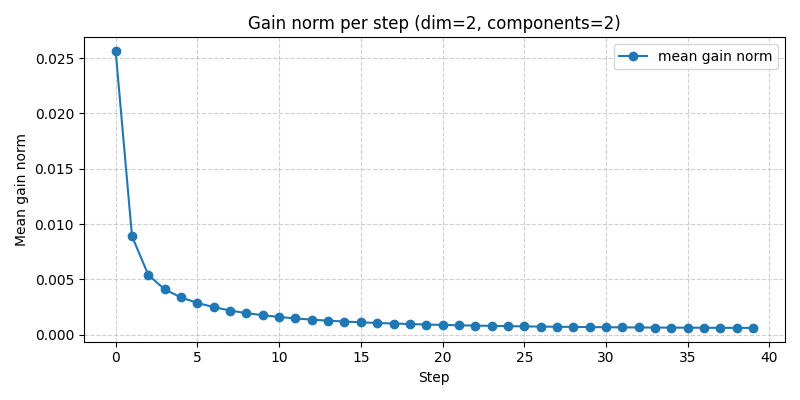
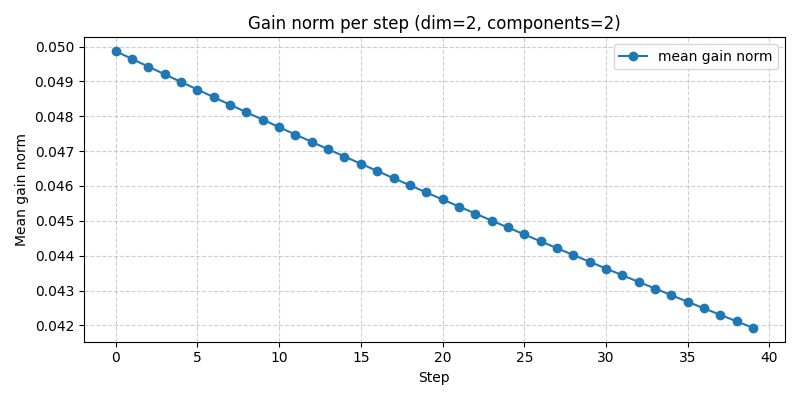
added possibility to get samples from means

diff --git a/benchmarking/benchmark_convergence.py b/benchmarking/benchmark_convergence.py
@@ -1,0 +1,193 @@
+"""Benchmark convergence of PCD sampling using moment matching errors per step."""
+
+import argparse
+from pathlib import Path
+
+import matplotlib.pyplot as plt
+import numpy as np
+import torch
+
+from pcd_sampling_py.models import PCDSamplerConfig
+from pcd_sampling_py.sampler import PCDSampler
+
+
+def build_gaussian_mixture(
+    dim: int = 2, components: int = 2, device: torch.device | None = None
+):
+    device = device or torch.device("cpu")
+    weights = torch.full((components,), 1.0 / components, device=device, dtype=torch.float32)
+    means = torch.zeros((components, dim), device=device, dtype=torch.float32)
+    means[:, 0] = torch.linspace(-2.0, 2.0, components, device=device)
+    covariances = torch.stack(
+        [torch.eye(dim, device=device, dtype=torch.float32) for _ in range(components)],
+        dim=0,
+    )
+    return weights, means, covariances
+
+
+def compute_mixture_moments(weights: torch.Tensor, means: torch.Tensor, covariances: torch.Tensor):
+    """Return population mean and covariance of a Gaussian mixture."""
+    mixture_mean = torch.sum(weights[:, None] * means, dim=0)
+    centered = means - mixture_mean
+    mixture_cov = torch.sum(
+        weights[:, None, None]
+        * (covariances + torch.einsum("bi,bj->bij", centered, centered)),
+        dim=0,
+    )
+    return mixture_mean, mixture_cov
+
+
+def ensure_device(device_str: str) -> torch.device:
+    device = torch.device(device_str)
+    if device.type == "cuda" and not torch.cuda.is_available():
+        print("CUDA requested but not available. Falling back to CPU.")
+        device = torch.device("cpu")
+    torch.set_default_device(device)
+    return device
+
+
+def run_benchmark(
+    number_samples: int,
+    max_steps: int,
+    number_unit_vectors: int,
+    device: torch.device,
+    output_dir: Path,
+    dim: int = 2,
+    components: int = 2,
+    sorting: bool = True,
+    threshold: float = 1e-4,
+):
+    torch.manual_seed(0)
+
+    weights, means, covariances = build_gaussian_mixture(
+        dim=dim, components=components, device=device
+    )
+    target_mean, target_cov = compute_mixture_moments(weights, means, covariances)
+
+    records: list[tuple[int, float, float]] = []
+
+    for steps in range(1, max_steps + 1):
+        sampler_cfg = PCDSamplerConfig(
+            dim=dim,
+            number_unit_vectors=number_unit_vectors,
+            number_samples=number_samples,
+            steps=steps,
+            sorting=sorting,
+            threshold=threshold,
+        )
+        sampler = PCDSampler(sampler_cfg)
+
+        with torch.no_grad():
+            samples = sampler.sample(weights, means, covariances)
+
+        sample_mean = samples.mean(dim=0)
+        centered = samples - sample_mean
+        sample_cov = centered.T @ centered / samples.shape[0]
+
+        mean_error = torch.linalg.vector_norm(sample_mean - target_mean).item()
+        cov_error = torch.linalg.matrix_norm(sample_cov - target_cov, ord="fro").item()
+
+        records.append((steps, mean_error, cov_error))
+
+        print(
+            f"Step {steps:3d} | mean error: {mean_error:.6f} | cov error: {cov_error:.6f}"
+        )
+
+    output_dir.mkdir(parents=True, exist_ok=True)
+    csv_path = output_dir / f"pcd_moment_errors_dim={dim}_comp={components}_steps={max_steps}.csv"
+    png_path = output_dir / f"pcd_moment_errors_dim={dim}_comp={components}_steps={max_steps}.png"
+
+    np.savetxt(
+        csv_path,
+        np.array(records),
+        delimiter=",",
+        header="step,mean_error,cov_error",
+        comments="",
+    )
+
+    steps_arr = [r[0] for r in records]
+    mean_errs = [r[1] for r in records]
+    cov_errs = [r[2] for r in records]
+
+    fig, ax = plt.subplots(figsize=(8, 4))
+    ax.plot(steps_arr, mean_errs, marker="o", label="Mean error (L2)")
+    ax.plot(steps_arr, cov_errs, marker="s", label="Covariance error (Frobenius)")
+    ax.set_xlabel("Optimization steps")
+    ax.set_ylabel("Moment error")
+    ax.set_title("Moment matching convergence")
+    ax.grid(True, which="both", linestyle="--", alpha=0.6)
+    ax.legend()
+    plt.tight_layout()
+    plt.savefig(png_path)
+    plt.close(fig)
+
+    print(f"Saved CSV to {csv_path}")
+    print(f"Saved plot to {png_path}")
+
+    return csv_path, png_path
+
+
+def parse_args() -> argparse.Namespace:
+    parser = argparse.ArgumentParser(
+        description="Benchmark convergence via moment matching errors."
+    )
+    parser.add_argument("--samples", type=int, default=1000, help="Number of samples (L).")
+    parser.add_argument(
+        "--max-steps", type=int, default=40, help="Maximum optimization steps to evaluate."
+    )
+    parser.add_argument(
+        "--unit-vectors", type=int, default=1000, help="Number of unit vectors (K)."
+    )
+    parser.add_argument(
+        "--device",
+        type=str,
+        default="cpu",
+        help="Torch device (e.g., 'cpu' or 'cuda'). Falls back to CPU if CUDA unavailable.",
+    )
+    parser.add_argument(
+        "--output-dir",
+        type=Path,
+        default=Path("benchmarking/benchmarking_results"),
+        help="Directory to store CSV and plot.",
+    )
+    parser.add_argument("--dim", type=int, default=2, help="Dimensionality of the Gaussian mixture.")
+    parser.add_argument("--components", type=int, default=2, help="Number of Gaussian mixture components.")
+    parser.add_argument(
+        "--sorting",
+        action="store_true",
+        help="Enable sorting-based update (same as sampler default). If omitted, disables sorting.",
+    )
+    parser.add_argument(
+        "--no-sorting",
+        dest="sorting",
+        action="store_false",
+        help="Disable sorting-based update.",
+    )
+    parser.set_defaults(sorting=True)
+    parser.add_argument(
+        "--threshold",
+        type=float,
+        default=1e-4,
+        help="Threshold passed to sampler config (not used when steps are fixed).",
+    )
+    return parser.parse_args()
+
+
+def main() -> None:
+    args = parse_args()
+    device = ensure_device(args.device)
+    run_benchmark(
+        number_samples=args.samples,
+        max_steps=args.max_steps,
+        number_unit_vectors=args.unit_vectors,
+        device=device,
+        output_dir=args.output_dir,
+        dim=args.dim,
+        components=args.components,
+        sorting=args.sorting,
+        threshold=args.threshold,
+    )
+
+
+if __name__ == "__main__":
+    main()

diff --git a/src/pcd_sampling_py/sampler.py b/src/pcd_sampling_py/sampler.py
@@ -28,6 +28,7 @@ class PCDSampler:
         self.dim = config.dim
         self.steps = config.steps
         self.sorting = config.sorting
+        self.mean_sampling = config.mean_sampling
 
         self.alpha_max = 2
         self.alpha_min = 0.01
@@ -165,7 +166,6 @@ class PCDSampler:
         delta_x = (u[None, :] * delta_r_original[:, None]) / self.number_unit_vectors
         return delta_x
 
-
     def _calculate_gain(self, step, X, projected_means, projected_stds, weights):
         coef = (
             self.alpha_min * step / self.steps
@@ -181,10 +181,9 @@ class PCDSampler:
         ).sum(
             dim=0
         )  # -> (L, N)
-            
+
         return coef, delta_x
-    
-    
+
     def _calculate_projections(self, means, covariances):
         projected_means = self.unit_vectors @ means.T  # -> (K, L)
 
@@ -193,8 +192,20 @@ class PCDSampler:
         )
         sigma2 = torch.clamp(sigma2, min=1e-3)
         projected_stds = torch.sqrt(sigma2)
-        
+
         return projected_means, projected_stds
+
+    def _initial_samples(self, weights: Tensor, means: Tensor, covariances: Tensor):
+        if self.mean_sampling:
+            # We just iterate through means and get samples.
+            K = means.shape[0]
+            N = self.number_samples
+
+            idx = torch.arange(N, device=means.device) % K  # (N,)
+            samples = means[idx]  # (N, d)
+            return samples
+
+        return sample_gm(weights, means, covariances, self.number_samples)
 
     @torch.compile
     def sample(self, weights: Tensor, means: Tensor, covariances: Tensor):
@@ -211,15 +222,19 @@ class PCDSampler:
         """
 
         # 1. Create projections of the original GM onto the unit vectors.
-        projected_means, projected_stds = self._calculate_projections(means, covariances)
+        projected_means, projected_stds = self._calculate_projections(
+            means, covariances
+        )
 
         # 2. Create some random starting samples from the provided GM
-        X = sample_gm(weights, means, covariances, self.number_samples)
+        X = self._initial_samples(weights, means, covariances)
 
         # 3. Start the minimization loop
         for _ in range(self.steps):
-        
-            coef, delta_x = self._calculate_gain(_, X, projected_means, projected_stds, weights)
+
+            coef, delta_x = self._calculate_gain(
+                _, X, projected_means, projected_stds, weights
+            )
             X += coef * delta_x
         return X
 
@@ -228,7 +243,7 @@ class PCDSampler:
         """
         Sample from the Gaussian Mixture. Returns a (L, N) tensor of samples. Stop when threshold is reached
         ATTENTION: Cannot be used in vmap.
-            
+
         :param weights: (T,)
         :type weights: Tensor
         :param means: (T, N)
@@ -238,37 +253,45 @@ class PCDSampler:
         """
 
         # 1. Create projections of the original GM onto the unit vectors.
-        projected_means, projected_stds = self._calculate_projections(means, covariances)
+        projected_means, projected_stds = self._calculate_projections(
+            means, covariances
+        )
 
         # 2. Create some random starting samples from the provided GM
-        X = sample_gm(weights, means, covariances, self.number_samples)
+        X = self._initial_samples(weights, means, covariances)
 
         # 3. Start the minimization loop
         for _ in range(self.steps):
-            
-            coef, delta_x = self._calculate_gain(_, X, projected_means, projected_stds, weights)
+
+            coef, delta_x = self._calculate_gain(
+                _, X, projected_means, projected_stds, weights
+            )
             X += coef * delta_x
 
             if torch.linalg.vector_norm(delta_x, dim=1).mean() < self.threshold:
                 return X
-            
+
         return X
-    
+
     def benchmark_steps(self, weights: Tensor, means: Tensor, covariances: Tensor):
         # 1. Create projections of the original GM onto the unit vectors.
-        projected_means, projected_stds = self._calculate_projections(means, covariances)
+        projected_means, projected_stds = self._calculate_projections(
+            means, covariances
+        )
 
         # 2. Create some random starting samples from the provided GM
         X = sample_gm(weights, means, covariances, self.number_samples)
 
         # Create array of norms
         norms = torch.empty((self.steps))
-        
+
         # 3. Start the minimization loop
         for _ in range(self.steps):
-            
-            coef, delta_x = self._calculate_gain(_, X, projected_means, projected_stds, weights)
+
+            coef, delta_x = self._calculate_gain(
+                _, X, projected_means, projected_stds, weights
+            )
             X += coef * delta_x
             norms[_] = torch.linalg.vector_norm(delta_x, dim=1).mean()
-            
+
         return norms

diff --git a/examples/example.py b/examples/example.py
@@ -15,19 +15,23 @@ def sample():
     weights = torch.tensor([0.5, 0.5])
     means = torch.tensor([[0.0, 0.0], [0.0, 0.0]])
     covariances = torch.tensor([[[3.0, 2.8], [2.8, 3.0]], [[3.0, -2.8], [-2.8, 3.0]]])
+    # weights = torch.tensor([1.])
+    # means = torch.tensor([[0.0, 0.0]])
+    # covariances = torch.tensor([[[3.0, 2.8], [2.8, 3.0]]])
+    
     torch.manual_seed(42)
 
     sum_time = 0.0
     last_samples = None
 
     sampling_config = PCDSamplerConfig(
-        number_samples=40,
+        number_samples=2,
         dim=2,
         number_unit_vectors=1000,
-        steps=100,
+        steps=0,
         sorting=True,
+        mean_sampling=False
     )
-    print("test")
     sampler = PCDSampler(sampling_config)
 
     for i in range(1):

diff --git a/src/pcd_sampling_py/models.py b/src/pcd_sampling_py/models.py
@@ -1,13 +1,18 @@
 from dataclasses import dataclass
 
+
 @dataclass
 class PCDSamplerConfig:
     """
     Config class for the sampler.
     """
+
     dim: int
     number_unit_vectors: int
     number_samples: int
     threshold: float = 0.1
     steps: int = 40
     sorting: bool = True
+    # This field means that the initial samples are means of the GM.
+    # This is useful for sampling MPC, where we have 1 Gaussian Component per sample
+    mean_sampling: bool = False